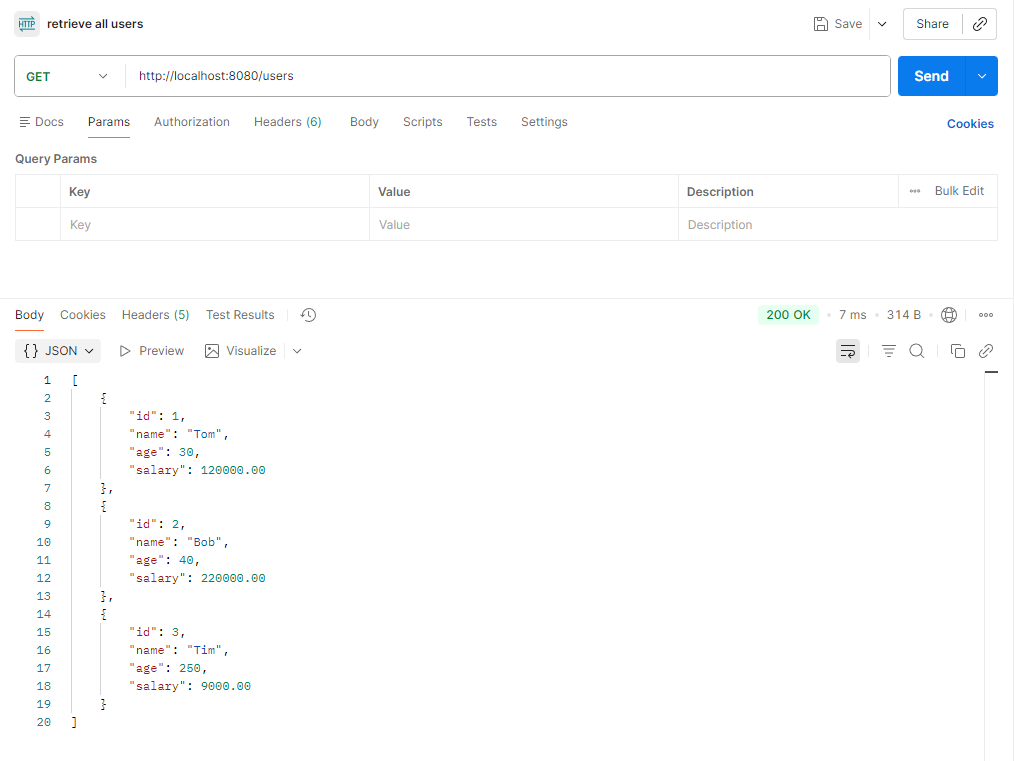
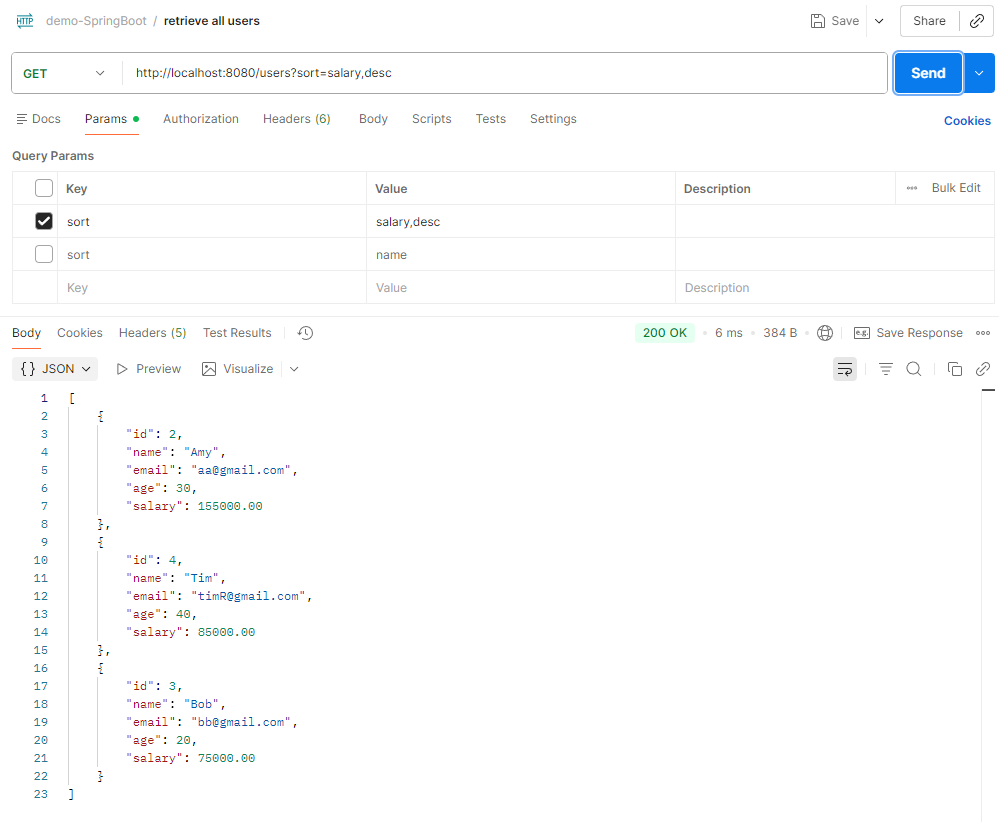
update cache logic

diff --git a/src/main/java/org/example/demospringboot/service/UserService.java b/src/main/java/org/example/demospringboot/service/UserService.java
@@ -19,9 +19,7 @@ import org.example.demospringboot.repository.UserRepository;
 import org.example.demospringboot.utils.Helper;
 import org.springframework.stereotype.Service;
 
-import java.util.Comparator;
 import java.util.List;
-import java.util.Optional;
 
 @Service
 @Slf4j
@@ -37,30 +35,15 @@ public class UserService {
     }
 
     @Transactional(readOnly = true)
-    @Cacheable(cacheNames = "usersList", key = "#sort == null || #sort.isBlank() ? 'id,asc' : #sort")
     public List<User> getAllUsers(String sort) {
-        List<User> users = userRepository.findAll();
-        if (sort == null || sort.isBlank()) {
-            return users;
-        }
-        String[] parts = sort.split(",");
-        String sortBy = parts[0];
-        String order = parts.length > 1 ? parts[1] : "asc";
-
-        Comparator<User> comparator = helper.buildUserComparator(sortBy);
-        if ("desc".equalsIgnoreCase(order)) {
-                comparator = comparator.reversed();
-        }
-
-        users.sort(comparator);
-        return users;
+        return userRepository.findAll(helper.buildSort(sort));
     }
 
     @Transactional(readOnly = true)
-    @Cacheable(cacheNames = "users", key = "#id", unless = "#result.isEmpty()")
-    public Optional<User> getUserById(Long id) {
+    @Cacheable(cacheNames = "users", key = "#id", unless = "#result == null")
+    public User getUserById(Long id) {
         log.info("DB hit: getUserById({})", id);
-        return userRepository.findById(id);
+        return userRepository.findById(id).orElse(null);
     }
 
     @Transactional(isolation = Isolation.READ_COMMITTED, propagation = Propagation.REQUIRED)
@@ -102,10 +85,8 @@ public class UserService {
     @Transactional(propagation = Propagation.REQUIRED)
     @CacheEvict(cacheNames = "users", key = "#id")
     public void deleteUser(Long id) {
-        if (!userRepository.existsById(id)) {
-            throw new UserNotFound(id);
-        }
-        userRepository.deleteById(id);
+        User user = userRepository.findById(id).orElseThrow(() -> new UserNotFound(id));
+        userRepository.delete(user);
         publisher.publishEvent(new UserChangedEvent(UserChangedEvent.Type.DELETED, id, null));
     }
 }

diff --git a/src/main/java/org/example/demospringboot/utils/Helper.java b/src/main/java/org/example/demospringboot/utils/Helper.java
@@ -1,25 +1,39 @@
 package org.example.demospringboot.utils;
 
-import org.example.demospringboot.entity.User;
 import org.example.demospringboot.exception.CustomBadRequestException;
+import org.springframework.data.domain.Sort;
 import org.springframework.stereotype.Component;
-
-import java.util.Comparator;
 
 @Component
 public class Helper {
-    public Comparator<User> buildUserComparator(String sortBy) {
-        switch (sortBy) {
-            case "id":
-                return Comparator.comparing(User::getId);
-            case "name":
-                return Comparator.comparing(User::getName);
-            case "age":
-                return Comparator.comparing(User::getAge);
-            case "salary":
-                return Comparator.comparing(User::getSalary);
-            default:
-                throw new CustomBadRequestException("invalid sortBy" + sortBy);
+
+    public Sort buildSort(String sort) {
+        if (sort == null || sort.isBlank()) {
+            return Sort.by(Sort.Direction.ASC, "id");
         }
+
+        String[] parts = sort.split(",");
+        String sortBy = parts[0].trim();
+        String order = parts.length > 1 ? parts[1].trim() : "asc";
+
+        if (!isAllowed(sortBy)) {
+            throw new CustomBadRequestException("invalid sortBy: " + sortBy);
+        }
+
+        Sort.Direction dir;
+        try {
+            dir = Sort.Direction.fromString(order);
+        } catch (IllegalArgumentException e) {
+            throw new CustomBadRequestException("invalid order: " + order);
+        }
+
+        return Sort.by(dir, sortBy);
+    }
+
+    private boolean isAllowed(String sortBy) {
+        return "id".equals(sortBy)
+                || "name".equals(sortBy)
+                || "age".equals(sortBy)
+                || "salary".equals(sortBy);
     }
 }

diff --git a/src/main/java/org/example/demospringboot/listener/UserChangedListener.java b/src/main/java/org/example/demospringboot/listener/UserChangedListener.java
@@ -4,8 +4,6 @@ import lombok.extern.slf4j.Slf4j;
 import org.example.demospringboot.event.UserChangedEvent;
 import org.example.demospringboot.service.AuditService;
 import org.example.demospringboot.service.MailService;
-import org.springframework.cache.Cache;
-import org.springframework.cache.CacheManager;
 import org.springframework.scheduling.annotation.Async;
 import org.springframework.stereotype.Component;
 import org.springframework.transaction.event.TransactionPhase;
@@ -17,12 +15,10 @@ public class UserChangedListener {
 
     private final MailService mailService;
     private final AuditService auditService;
-    private final CacheManager cacheManager;
 
-    public UserChangedListener(MailService mailService, AuditService auditService, CacheManager cacheManager) {
+    public UserChangedListener(MailService mailService, AuditService auditService) {
         this.mailService = mailService;
         this.auditService = auditService;
-        this.cacheManager = cacheManager;
     }
 
     @Async("demoTaskExecutor")
@@ -35,11 +31,6 @@ public class UserChangedListener {
         if (e.type() == UserChangedEvent.Type.CREATED && e.email() != null) {
             mailService.sendWelcomeEmail(e.email());
         }
-
-        Cache usersList = cacheManager.getCache("usersList");
-        if (usersList != null) {
-            usersList.clear();
-            log.info("Cleared cache: usersList");
-        }
     }
 }
+

diff --git a/src/main/java/org/example/demospringboot/controller/UserController.java b/src/main/java/org/example/demospringboot/controller/UserController.java
@@ -34,7 +34,11 @@ public class UserController {
 
     @GetMapping("{id}")
     public User getUserById(@PathVariable Long id) {
-        return userService.getUserById(id).orElseThrow(() -> new UserNotFound(id));
+        User user = userService.getUserById(id);
+        if (user == null) {
+            throw new UserNotFound(id);
+        }
+        return user;
     }
 
     @PostMapping

diff --git a/src/main/java/org/example/demospringboot/config/CacheConfig.java b/src/main/java/org/example/demospringboot/config/CacheConfig.java
@@ -12,7 +12,7 @@ public class CacheConfig {
 
     @Bean
     public CacheManager cacheManager() {
-        return new ConcurrentMapCacheManager("users", "usersList");
+        return new ConcurrentMapCacheManager("users");
     }
 }
 

diff --git a/README.md b/README.md
@@ -18,11 +18,15 @@ info ```http://localhost:8090/manage/info```
 - maven
 
 ## Test
-Postman test results
+- Create a user
 ![create.png](src/main/resources/static/create.png)
+- retrieve a user
+![getUser.png](src/main/resources/static/getUser.png)
+- update a user
+![updateUser.png](src/main/resources/static/updateUser.png)
+- retrieve all users
 ![getAll.png](src/main/resources/static/getAll.png)
-![getById.png](src/main/resources/static/getById.png)
-![update.png](src/main/resources/static/update.png)
+- delete a user
 ![delete.png](src/main/resources/static/delete.png)
 
 ## Dependencies
